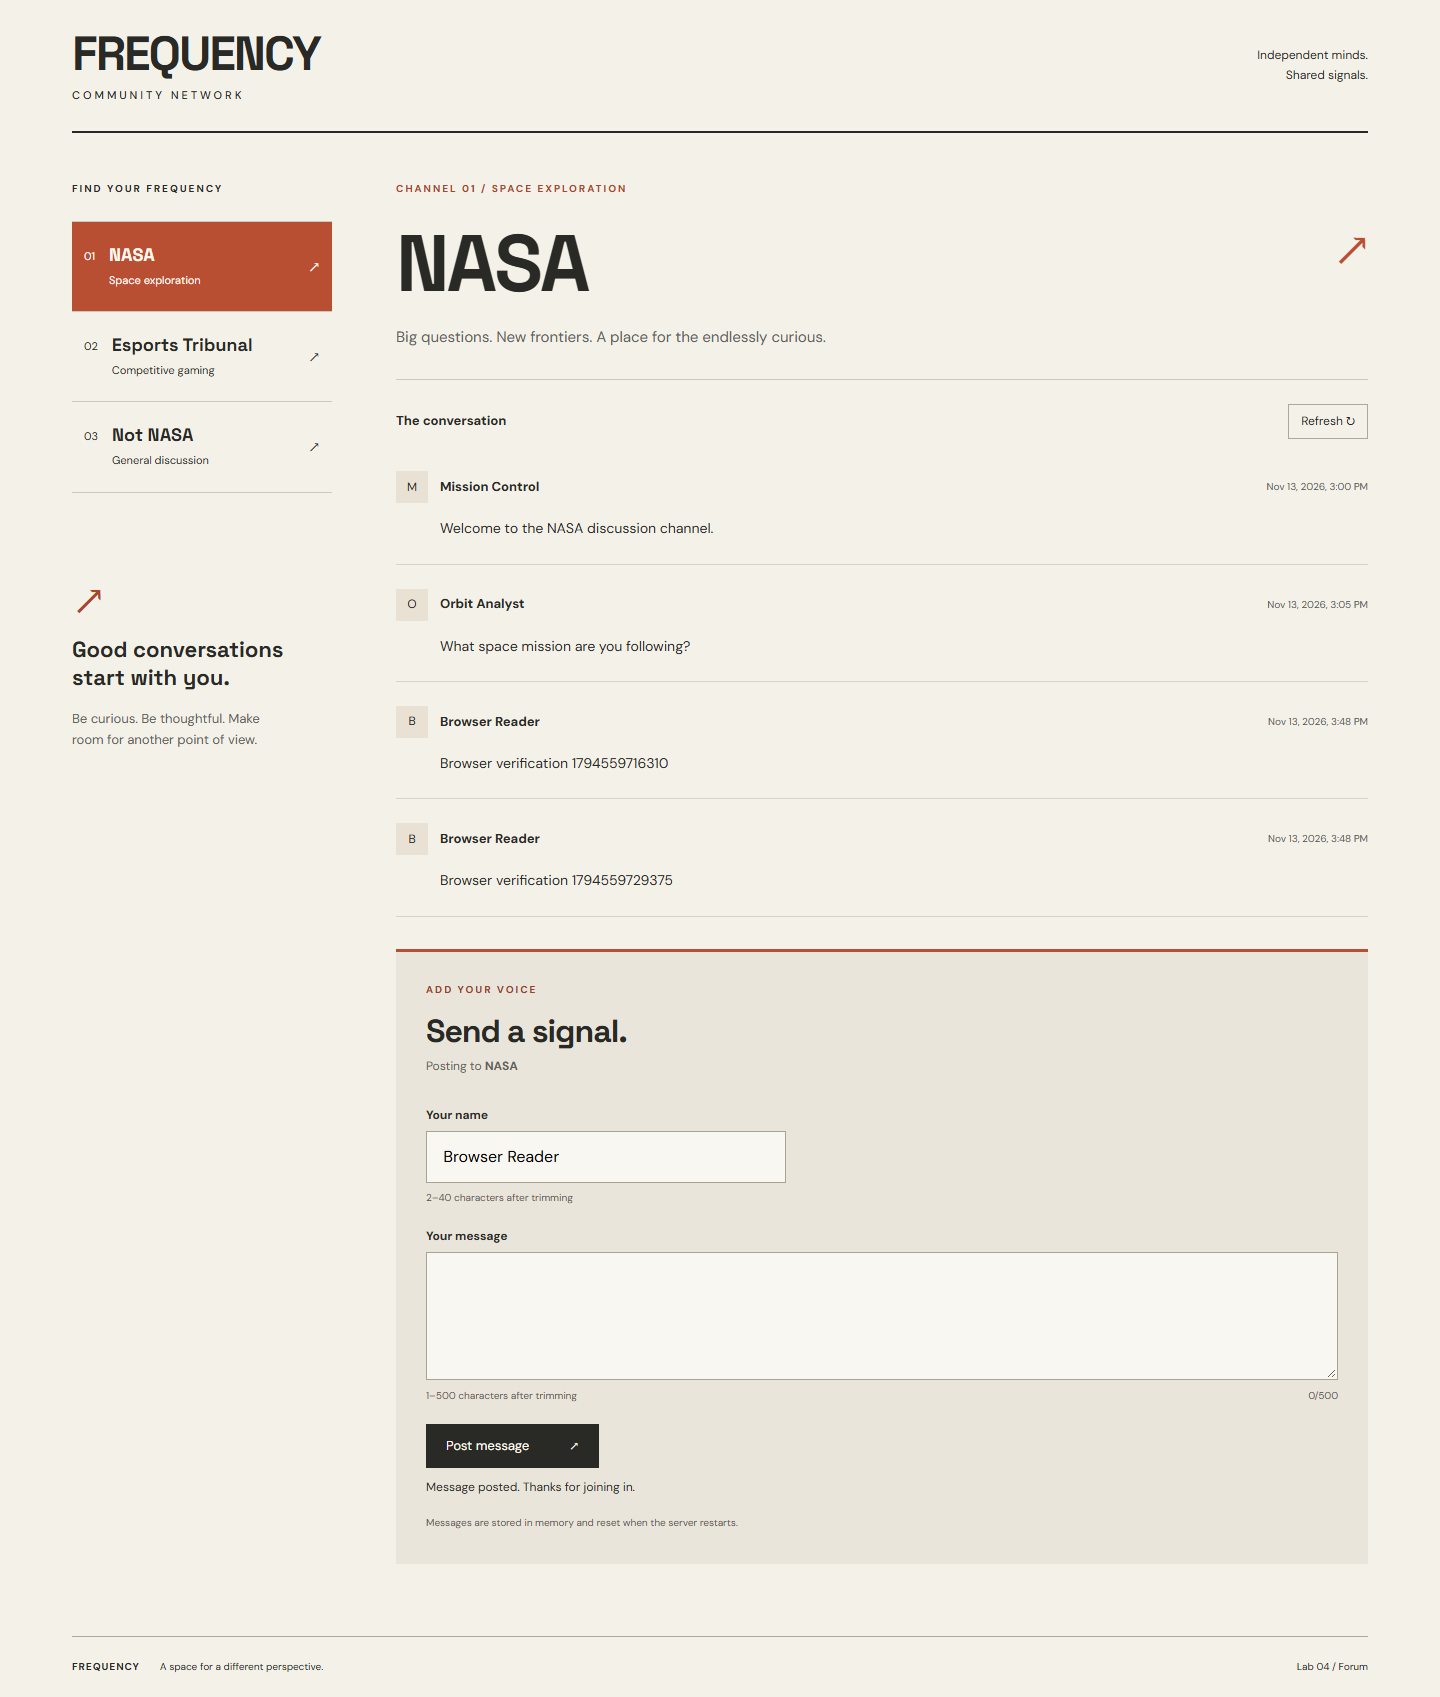
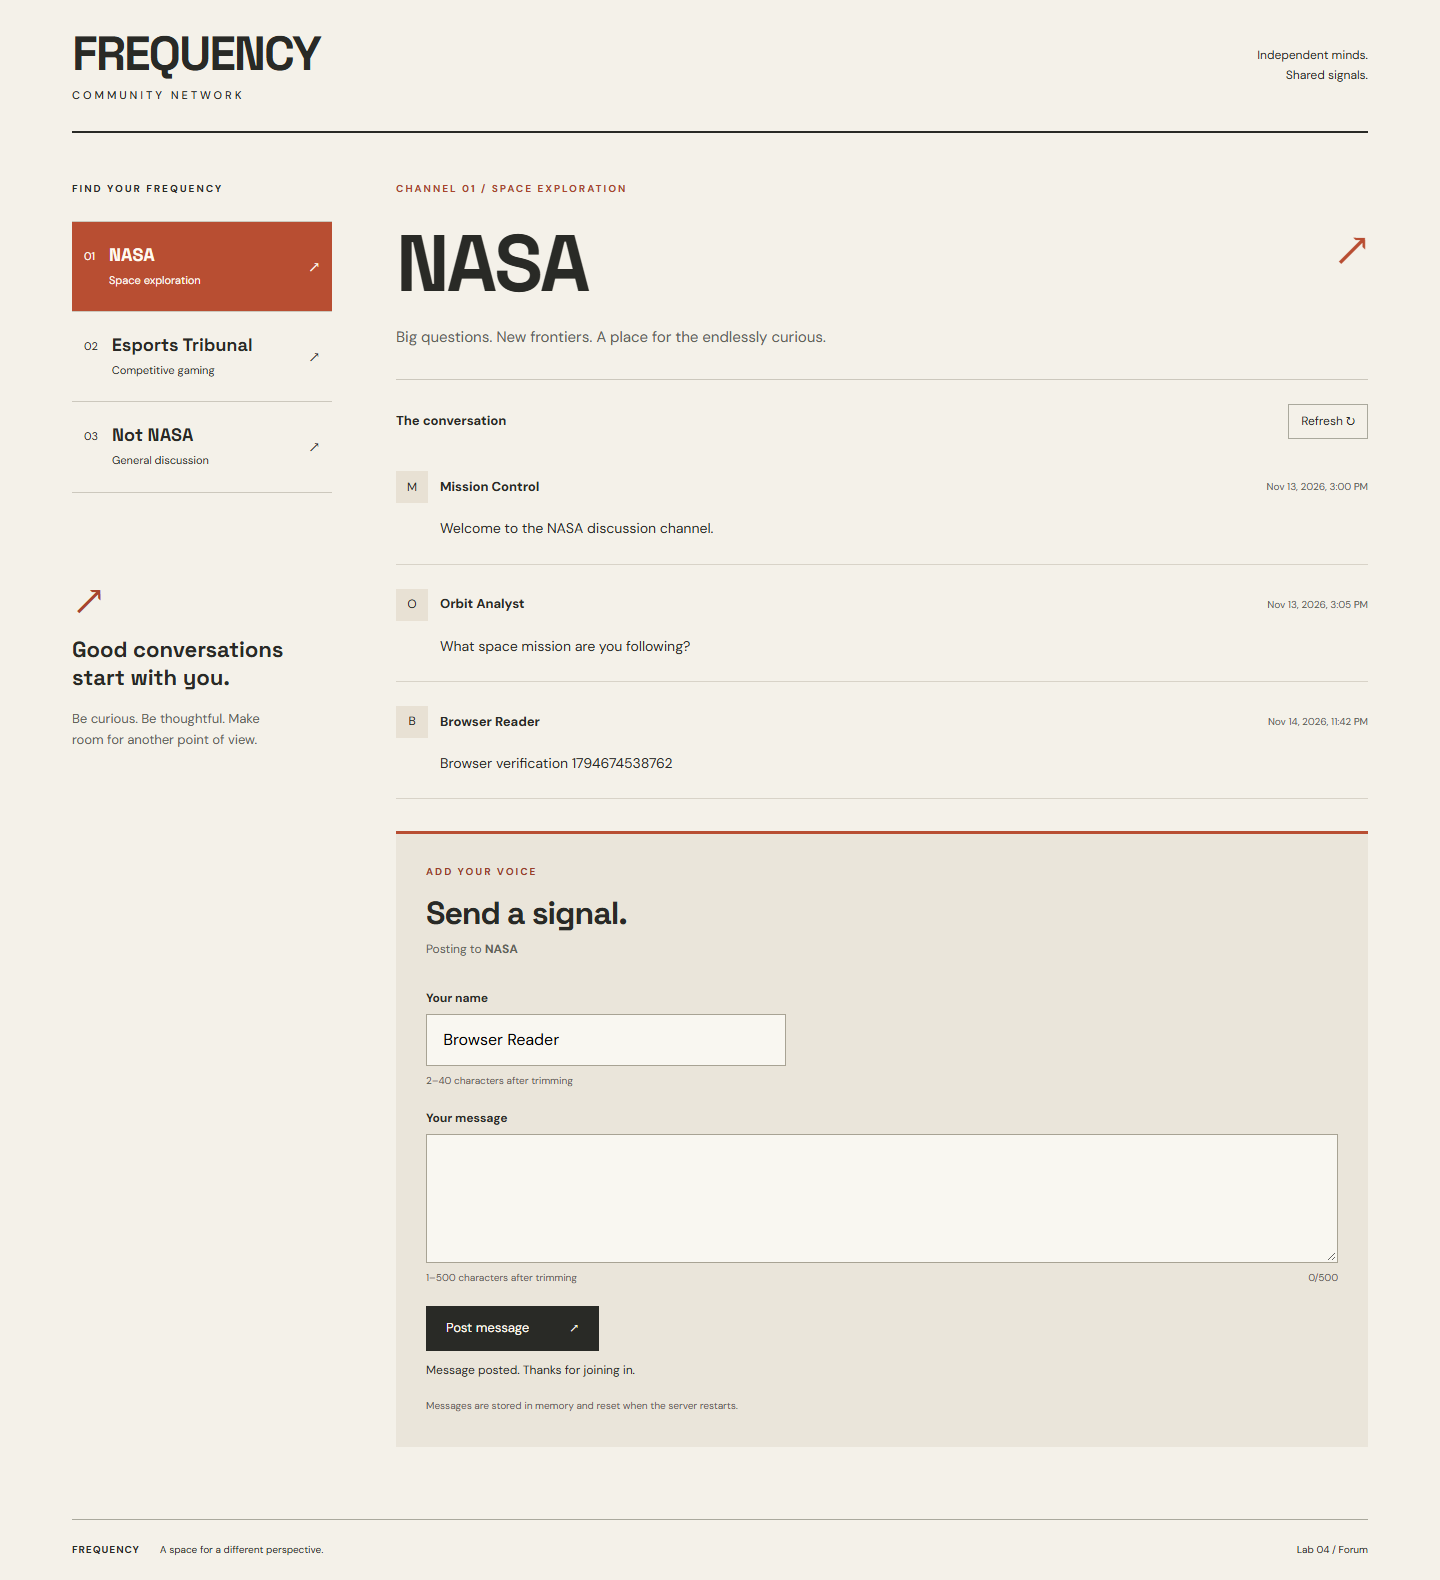
fix(ex3): update forum messages hook and verification screenshot

diff --git a/Lab4/Exercises/Exercise 3/frontend/src/hooks/useForumMessages.js b/Lab4/Exercises/Exercise 3/frontend/src/hooks/useForumMessages.js
@@ -2,46 +2,73 @@ import { useEffect, useState } from "react";
 import { fetchMessages } from "../services/forumApi";
 
 export function useForumMessages(channel) {
-  const [query, setQuery] = useState({ channel, version: 0 });
-  // Invalidate cached results during render, before a changed channel can paint.
-  if (query.channel !== channel)
-    setQuery({ channel, version: query.version + 1 });
-  const { version } = query;
-  const [result, setResult] = useState(null);
+  const [request, setRequest] = useState({
+    channel: null,
+    status: "idle",
+    messages: [],
+    error: null,
+    version: 0,
+  });
+
   useEffect(() => {
     if (!channel) return;
     const controller = new AbortController();
-    fetchMessages(channel, controller.signal).then(
-      (data) => {
-        if (!controller.signal.aborted)
-          setResult({
-            channel,
-            version,
-            status: "success",
-            messages: data.messages,
-            error: null,
-          });
-      },
-      (error) => {
-        if (!controller.signal.aborted)
-          setResult({
-            channel,
-            version,
-            status: "error",
-            messages: [],
-            error: error.message,
-          });
-      },
-    );
-    return () => controller.abort();
-  }, [channel, version]);
-  const visible =
-    result?.channel === channel && result.version === version
-      ? result
-      : { status: channel ? "loading" : "idle", messages: [], error: null };
+
+    fetchMessages(channel, controller.signal)
+      .then((data) => {
+        if (controller.signal.aborted) return;
+
+        setRequest((previous) => ({
+          channel,
+          status: "success",
+          messages: data.messages,
+          error: null,
+          version: previous.version,
+        }));
+      })
+      .catch((error) => {
+        if (controller.signal.aborted) return;
+
+        setRequest((previous) => ({
+          channel,
+          status: "error",
+          messages: [],
+          error: error.message,
+          version: previous.version,
+        }));
+      });
+
+    return () => {
+      controller.abort();
+    };
+  }, [channel, request.version]);
+
+  const visibleRequest =
+    request.channel === channel
+      ? request
+      : {
+          channel,
+          status: channel ? "loading" : "idle",
+          messages: [],
+          error: null,
+          version: request.version,
+        };
+
+  function refresh() {
+    setRequest((previous) => ({
+      ...previous,
+      channel,
+      status: "loading",
+      messages: [],
+      error: null,
+      version: previous.version + 1,
+    }));
+  }
+
   return {
-    ...visible,
-    refresh: () =>
-      setQuery((value) => ({ ...value, version: value.version + 1 })),
+    status: visibleRequest.status,
+    messages: visibleRequest.messages,
+    error: visibleRequest.error,
+    refresh,
   };
 }
